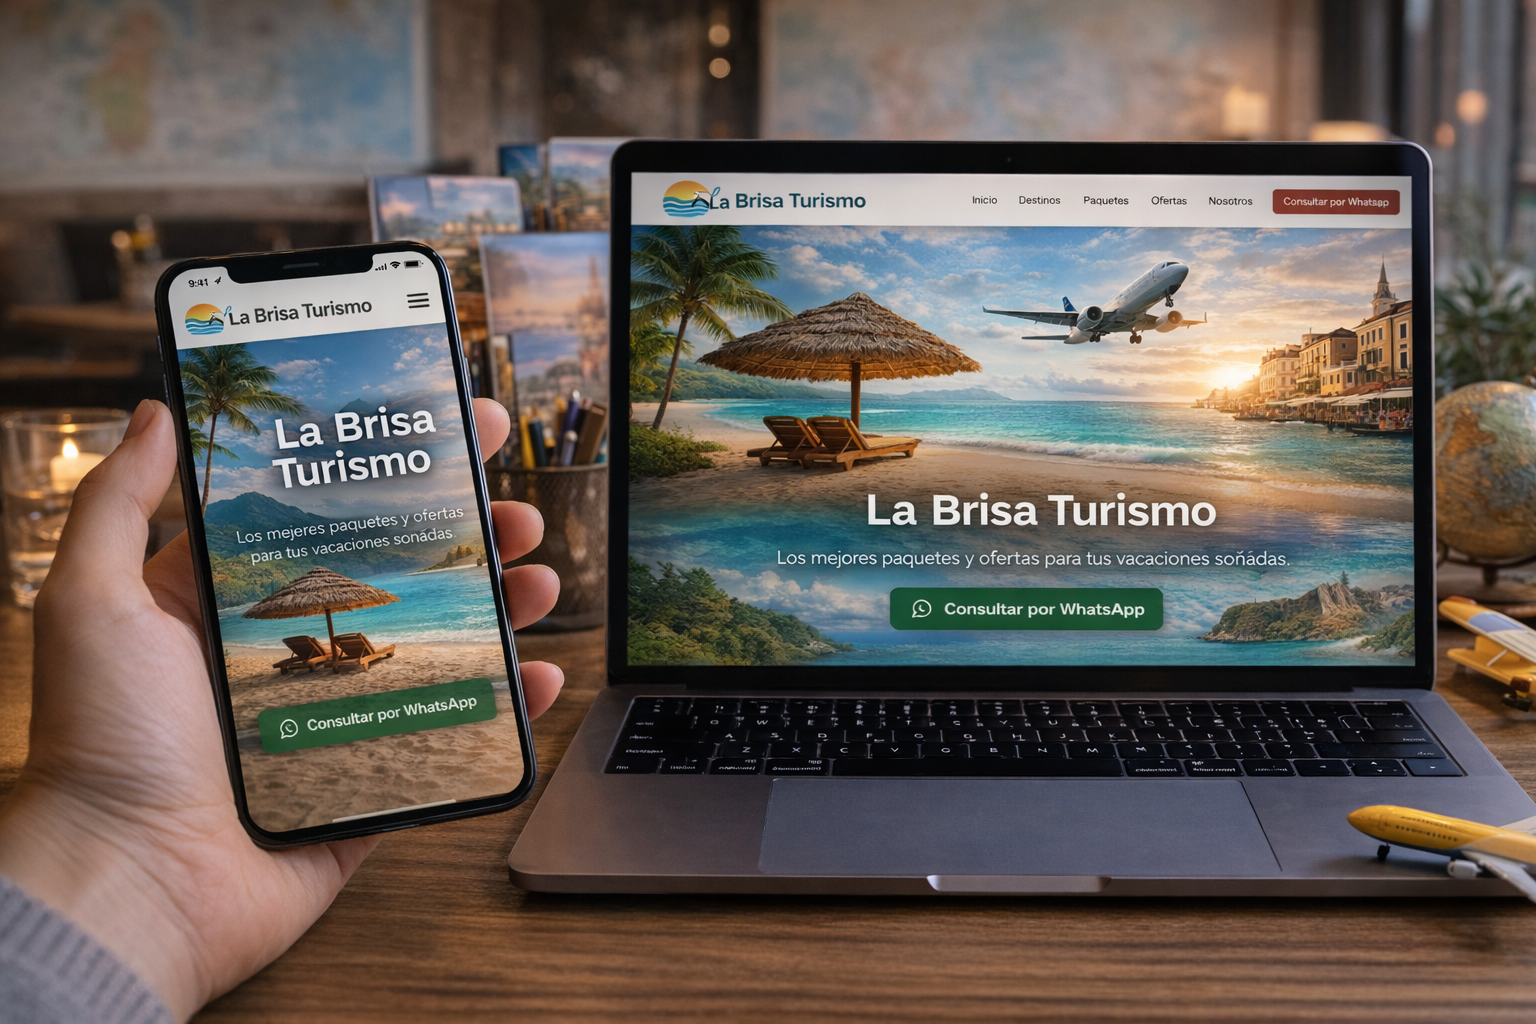
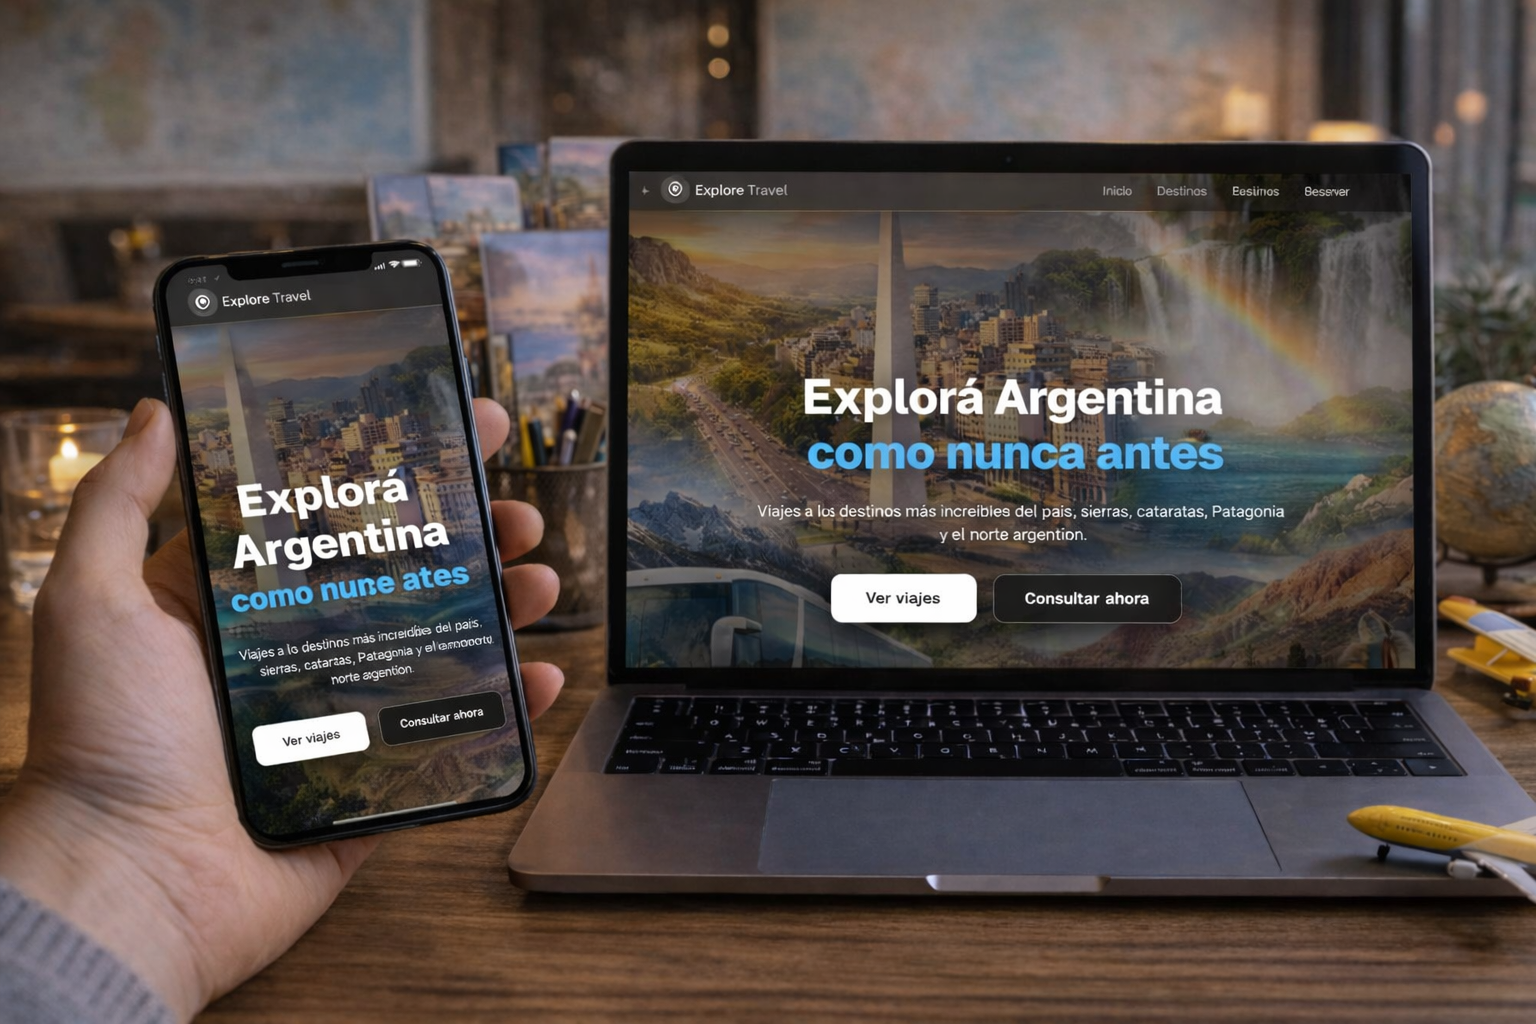
md

diff --git a/components/demos-section.tsx b/components/demos-section.tsx
@@ -18,10 +18,16 @@ const demos = [
     image: "/demo_hotel.webp",
   },
   {
-    title: "Web para Restaurantes",
+    title: "Web para Restaurantess",
     description: "Mostra tu carta online y toma pedidos por WhatsApp.",
     href: "https://resto-demo-nine.vercel.app/",
     image: "/demo_resto.webp",
+  },
+  {
+    title: "Agencias de viajes",
+    description: "Mostra oda la información de tus destinos.",
+    href: "https://turismo-demo-eta.vercel.app/",
+    image: "/demo_turismo.webp",
   },
 ];
 
@@ -147,19 +153,19 @@ export default function DemoSection() {
                           md:h-auto md:min-h-[420px] lg:min-h-[460px]
                           bg-gradient-to-br from-neutral-100 to-neutral-50"
                       >
-<div className="relative h-full w-full md:mx-auto md:max-w-[720px] md:px-8 md:py-10 lg:px-10">
-                         <Image
-  src={demo.image}
-  alt={demo.title}
-  fill
-  className={`object-cover md:object-contain transition-all duration-700 ease-out ${
-    isActive
-      ? "opacity-100 scale-100"
-      : "opacity-0 scale-[0.98]"
-  }`}
-  sizes="(max-width: 768px) 100vw, 45vw"
-  priority={isActive}
-/>
+                        <div className="relative h-full w-full md:mx-auto md:max-w-[720px] md:px-8 md:py-10 lg:px-10">
+                          <Image
+                            src={demo.image}
+                            alt={demo.title}
+                            fill
+                            className={`object-cover md:object-contain transition-all duration-700 ease-out ${
+                              isActive
+                                ? "opacity-100 scale-100"
+                                : "opacity-0 scale-[0.98]"
+                            }`}
+                            sizes="(max-width: 768px) 100vw, 45vw"
+                            priority={isActive}
+                          />
                         </div>
 
                         {/* Desktop: difumina el paso imagen → textos */}
